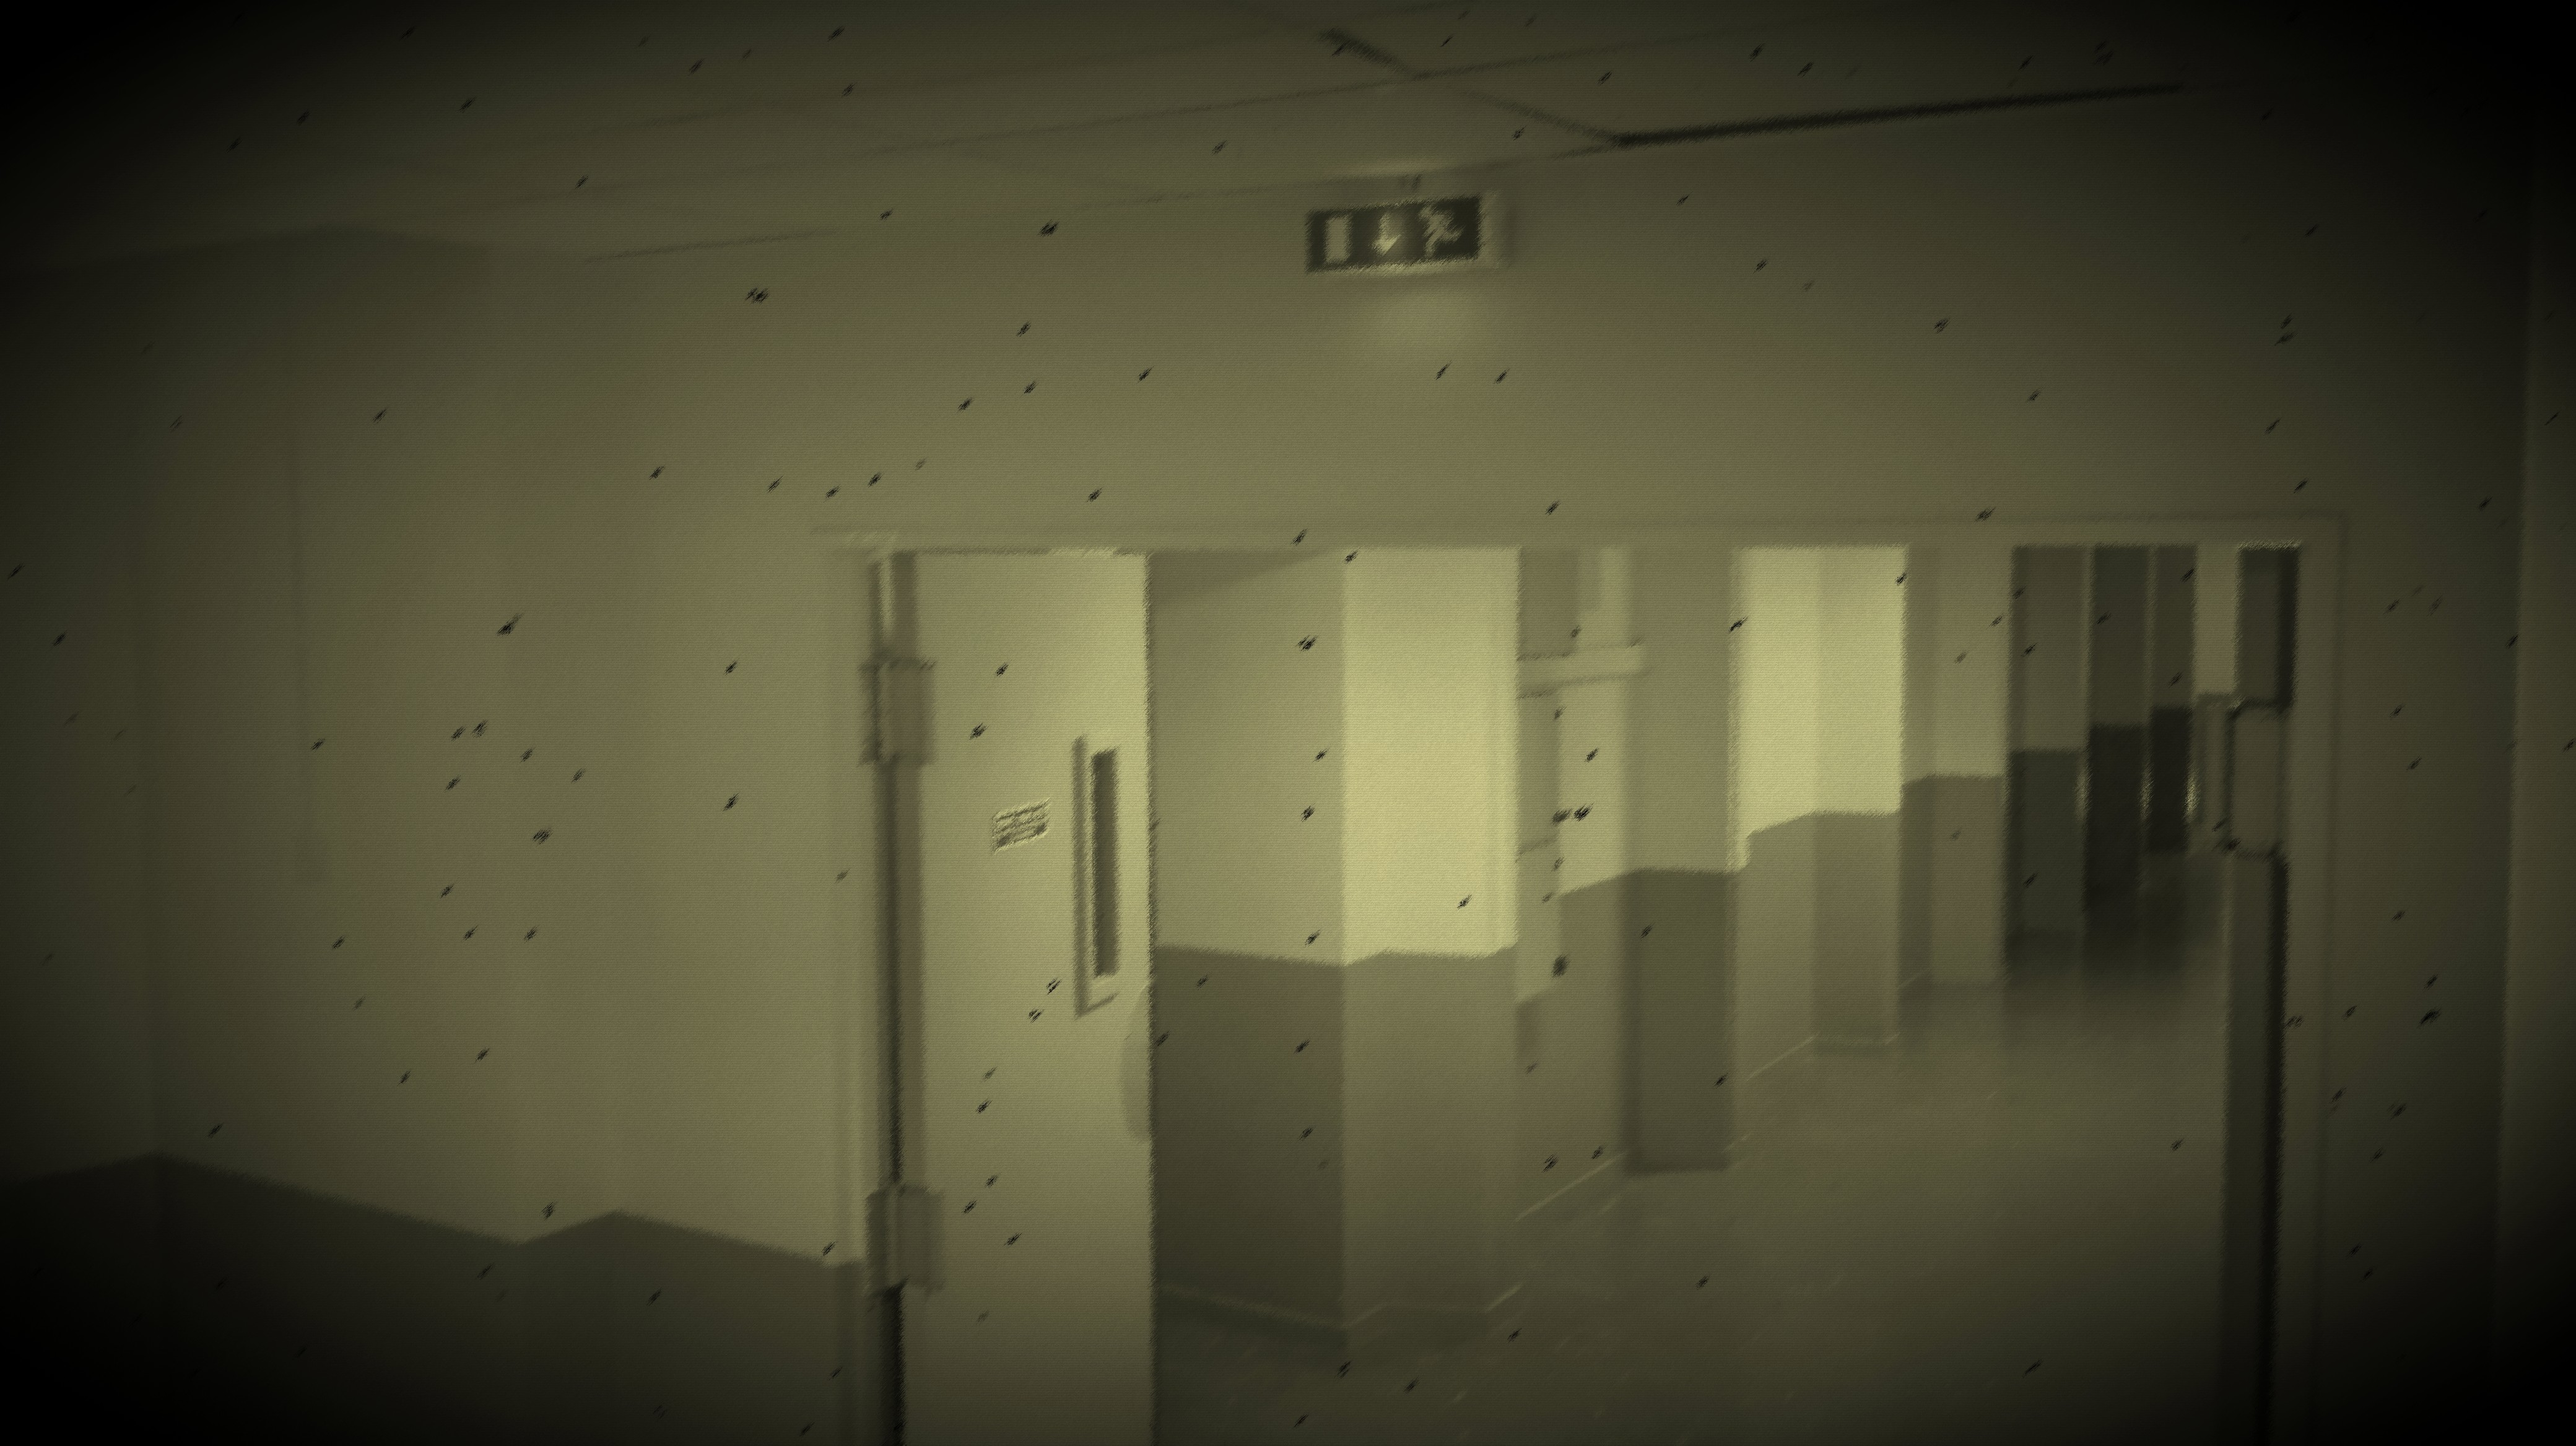
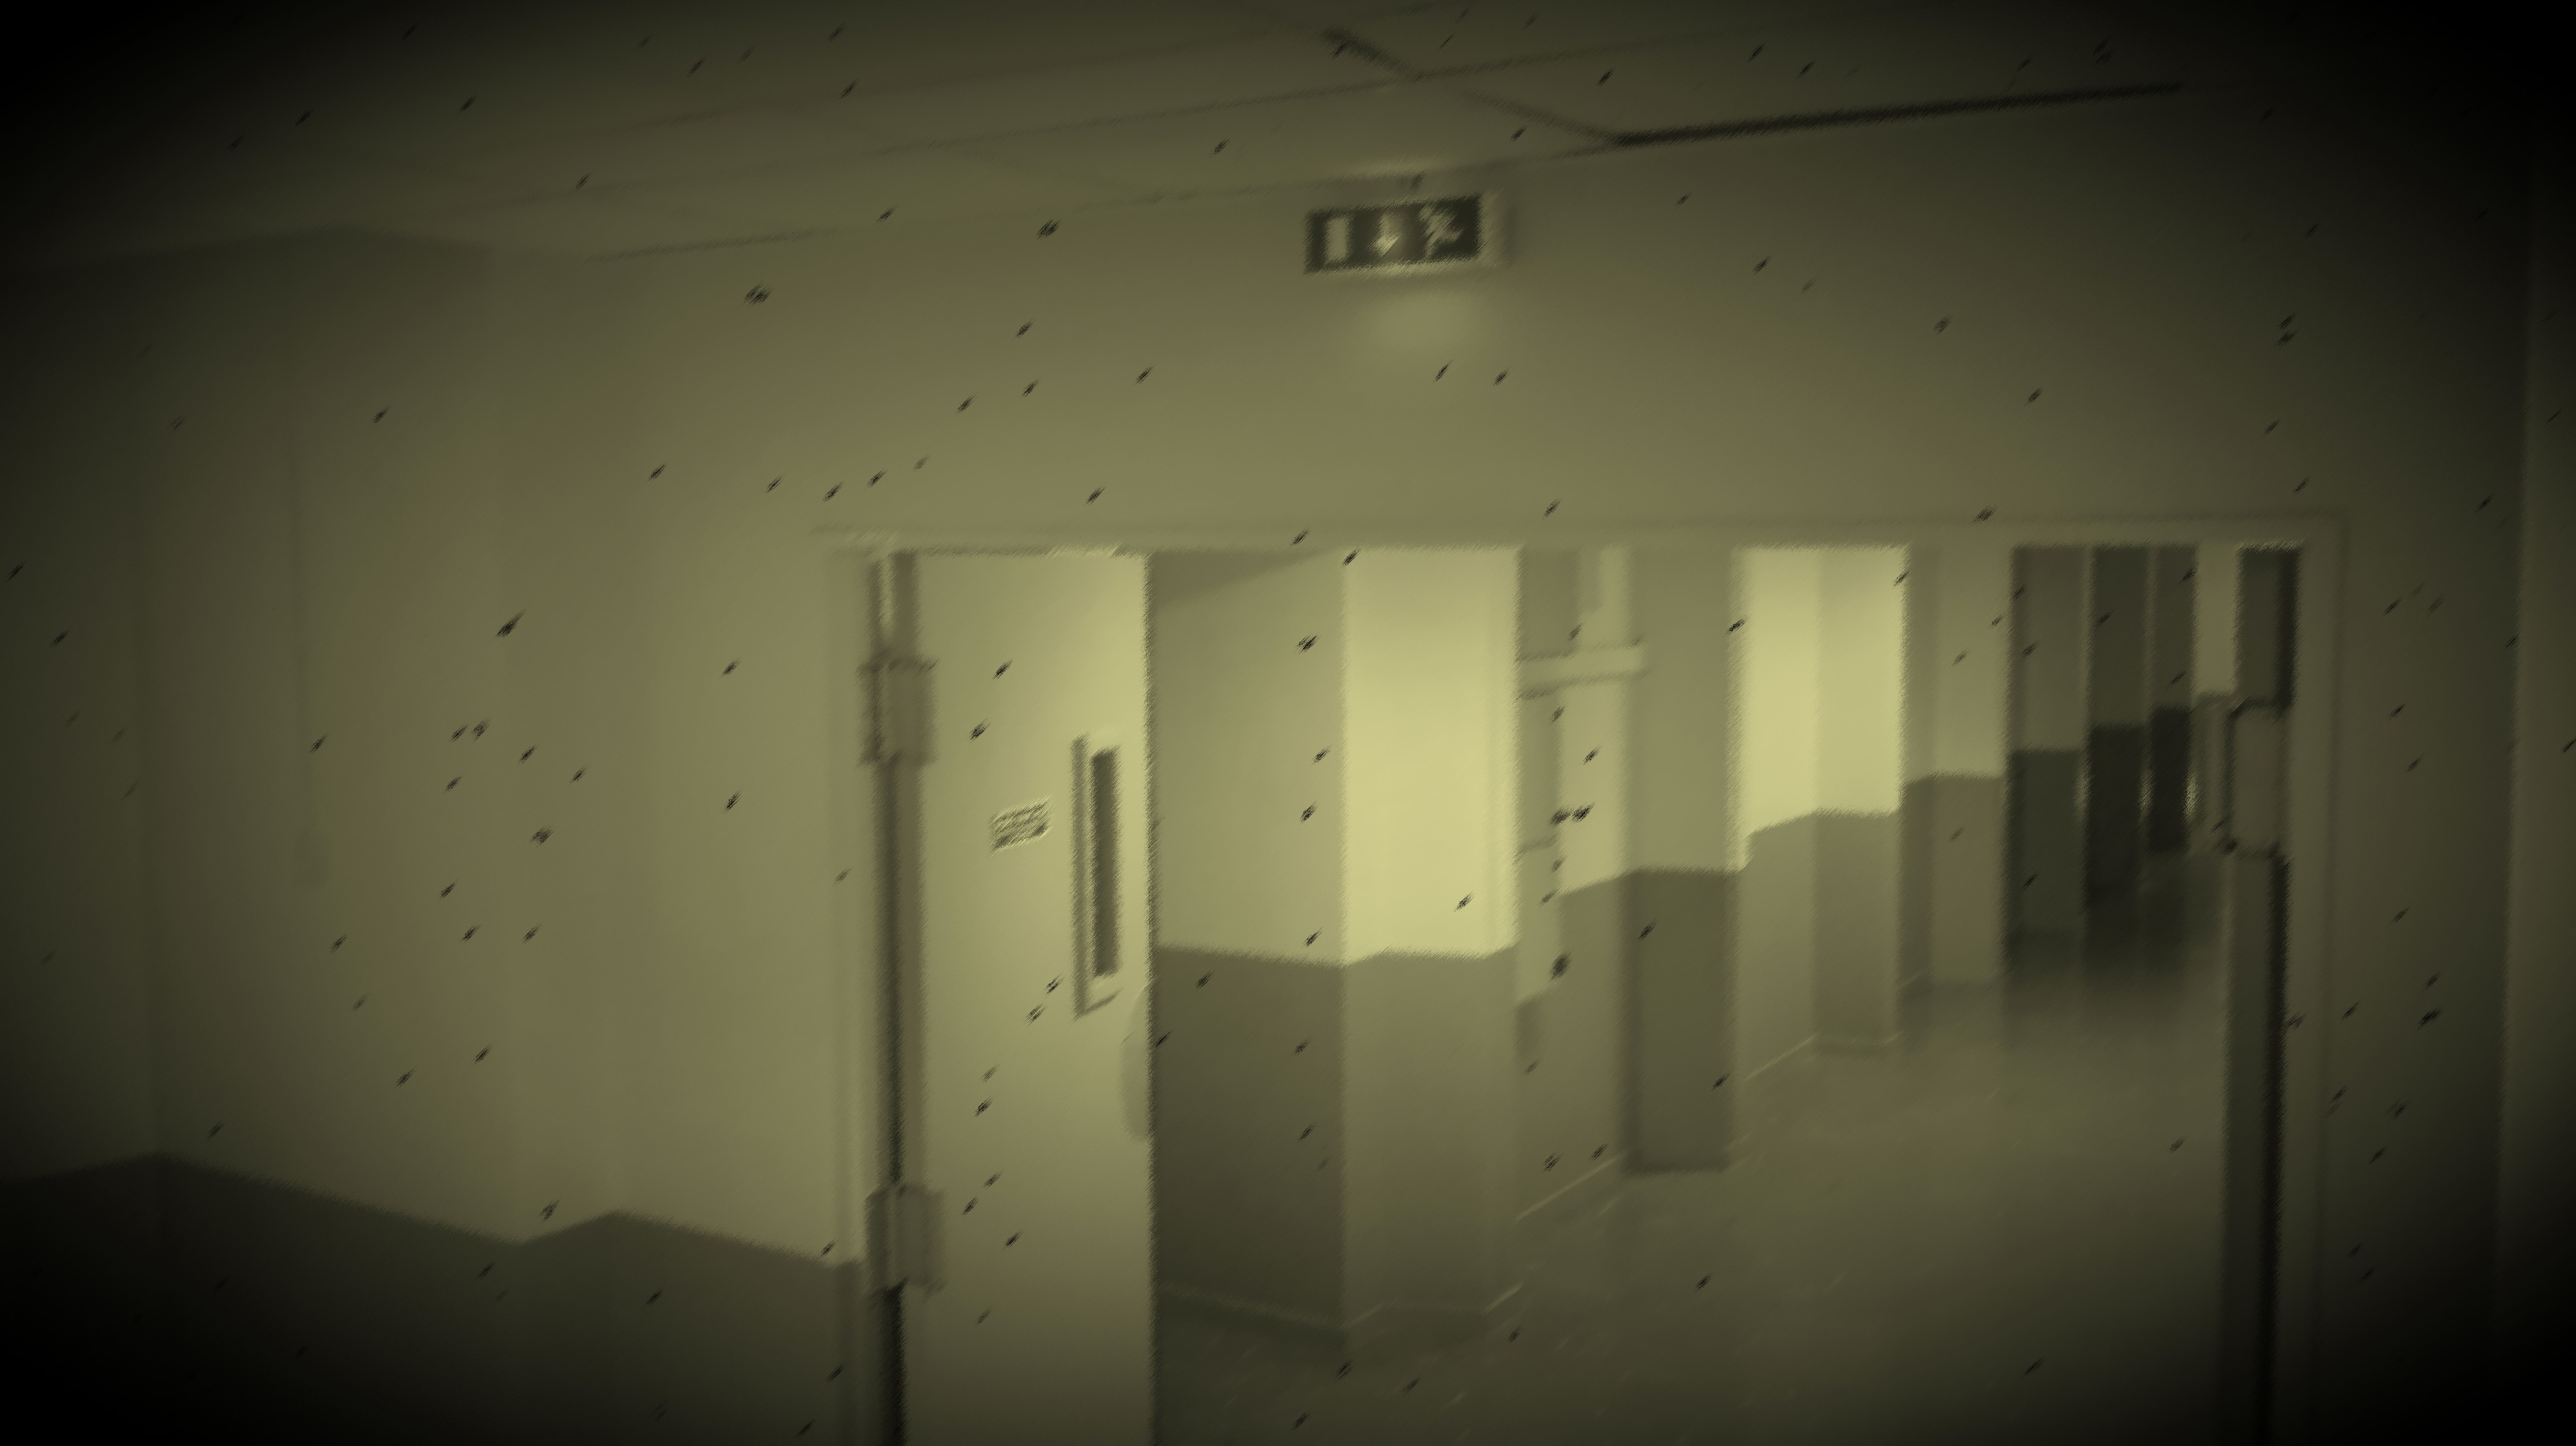
Glitch V3

diff --git a/JS/event.js b/JS/event.js
@@ -22,27 +22,18 @@ function glitch(){
     screenName = screenName.slice(pos+1,screenName.length-4);
     var i = document.getElementById(selectedCam.id)
     i.src="RESOURCES/camPics/"+screenName+"_glitch.jpg"
-    setTimeout(function(){i.src="RESOURCES/camPics/"+screenName+".jpg"},100)
-    setTimeout(function(){i.src="RESOURCES/camPics/"+screenName+"_glitch.jpg"},200)
-    setTimeout(function(){i.src="RESOURCES/camPics/"+screenName+".jpg"},300)
-    setTimeout(function(){i.src="RESOURCES/camPics/"+screenName+"_glitch.jpg"},400)
-    setTimeout(function(){i.src="RESOURCES/camPics/"+screenName+".jpg"},500)
-    setTimeout(function(){i.src="RESOURCES/camPics/"+screenName+"_glitch.jpg"},600)
-    setTimeout(function(){i.src="RESOURCES/camPics/"+screenName+".jpg"},700)
+    i.style.bottom="1%"
+    i.style.left="1%"
+    setTimeout(function(){i.src="RESOURCES/camPics/"+screenName+".jpg";i.style.bottom="0%";i.style.left="0%"},100)
+    setTimeout(function(){i.src="RESOURCES/camPics/"+screenName+"_glitch.jpg";i.style.bottom="1%";i.style.left="1%"},200)
+    setTimeout(function(){i.src="RESOURCES/camPics/"+screenName+".jpg";i.style.bottom="0%";i.style.left="0%"},300)
+    setTimeout(function(){i.src="RESOURCES/camPics/"+screenName+"_glitch.jpg";i.style.bottom="1%";i.style.left="1%"},400)
+    setTimeout(function(){i.src="RESOURCES/camPics/"+screenName+".jpg";i.style.bottom="0%";i.style.left="0%"},500)
+    setTimeout(function(){i.src="RESOURCES/camPics/"+screenName+"_glitch.jpg";i.style.bottom="1%";i.style.left="1%"},600)
+    setTimeout(function(){i.src="RESOURCES/camPics/"+screenName+".jpg";i.style.bottom="0%";i.style.left="0%"},700)
 }
 
-function glitch2(){
-    interferencesS()
-    var i = document.getElementById("screenCam1")
-    i.src="RESOURCES/couloir_glitch2.jpg"
-    setTimeout(function(){i.src="RESOURCES/couloir.jpg"},100)
-    setTimeout(function(){i.src="RESOURCES/couloir_glitch2.jpg"},200)
-    setTimeout(function(){i.src="RESOURCES/couloir.jpg"},300)
-    setTimeout(function(){i.src="RESOURCES/couloir_glitch2.jpg"},400)
-    setTimeout(function(){i.src="RESOURCES/couloir.jpg"},500)
-    setTimeout(function(){i.src="RESOURCES/couloir_glitch2.jpg"},600)
-    setTimeout(function(){i.src="RESOURCES/couloir.jpg"},700)
-}
+
 
 function invertSpectre(pic) {
     global1 = pic

diff --git a/Page.html b/Page.html
@@ -25,7 +25,9 @@
             <h1 id="titleLevel">Level Selection</h1>
             <img id ="retourLevel" src="RESOURCES/fleche.png" alt="retour" onclick="toLobby(), metalCreakingS()">
         </div>
-        <div id="game"></div>
+        <div id="game">
+            <img id ="glitchImg" src="RESOURCES/camPics/Couloir2_glitch.jpg" alt="nope" style="opacity:0">
+        </div>
     </body>
     <script type="text/jscript" src="JS/element.js"></script>
     <script type="text/jscript" src="JS/Map.js"></script>

diff --git a/JS/element.js b/JS/element.js
@@ -72,6 +72,7 @@ function createScreen(sendId) {
     screenCam.style.objectFit = "cover"
     screenCam.style.width = "100%"
     screenCam.style.height = "100%"
+    screenCam.style.position="absolute"
     
     screenOverlay.src = "RESOURCES/camOverlay.gif"
     screenOverlay.alt = "cameraOverlay"

diff --git a/CSS/main.css b/CSS/main.css
@@ -379,6 +379,17 @@ body {
     opacity: 1;
 }
 
+#glitchImg {
+    position: absolute;
+    width: 55%;
+    height: 70%;
+    left: 16%;
+    top: 9%;
+    background-color: #f7e5e1;
+    z-index: 1;
+}
+
+
 .screenOverlay {
     z-index: 1;
     transition: opacity 0.3s ease;
